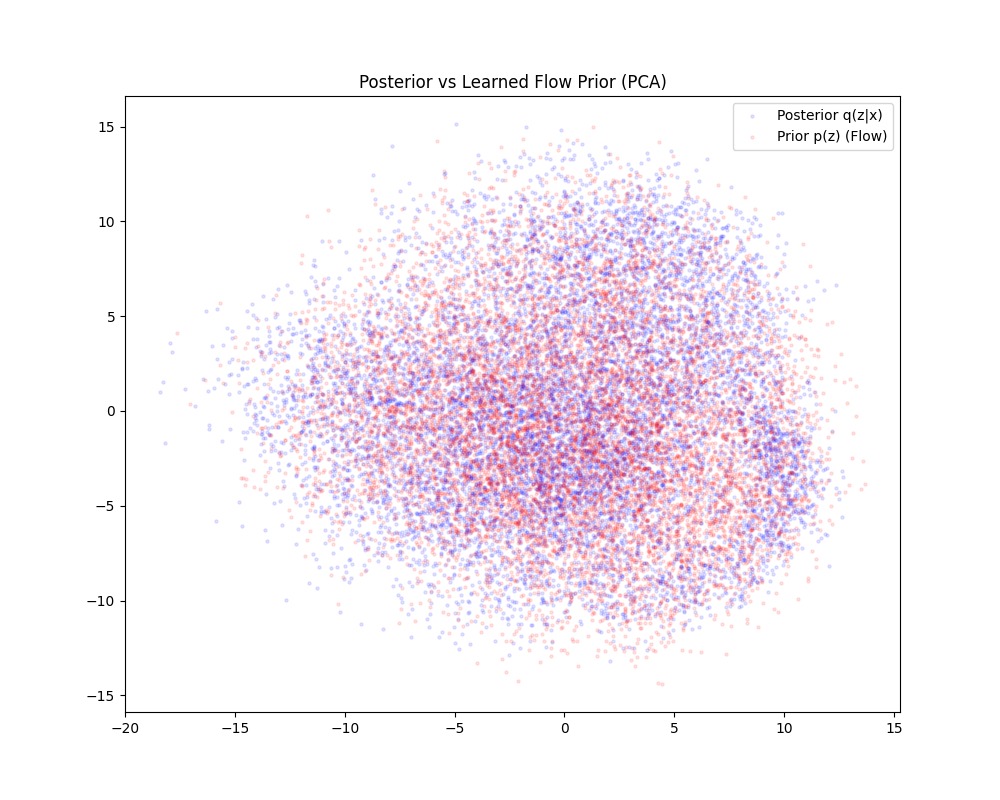
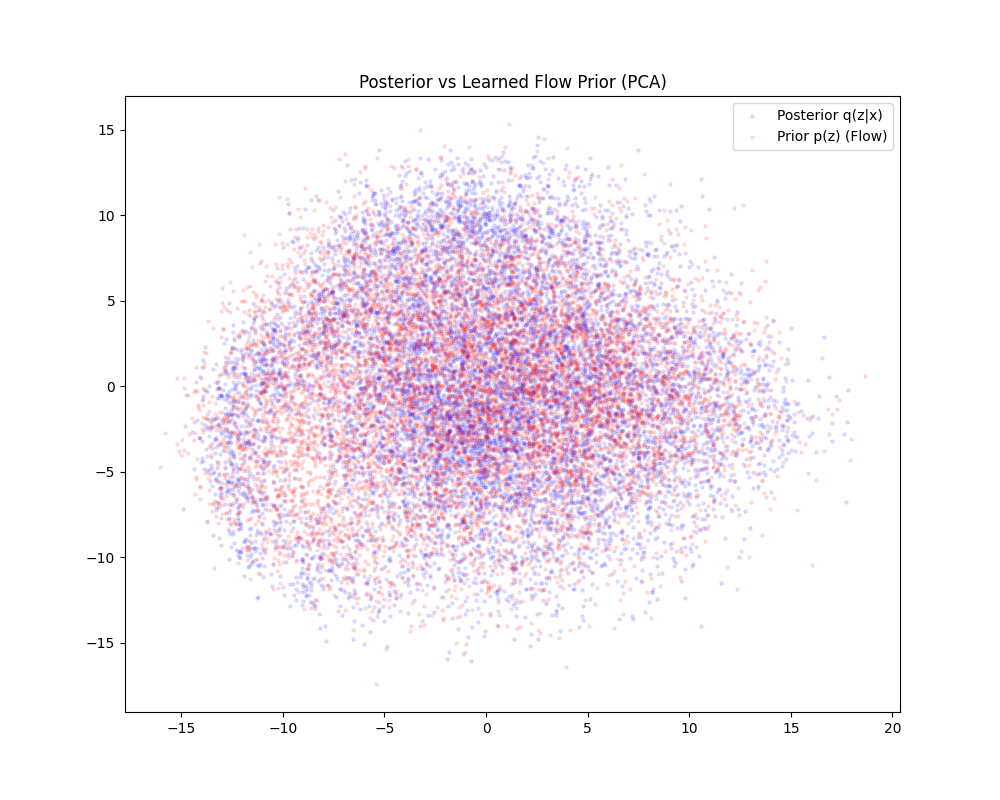
adds week5 stuff

diff --git a/Week 3/ddpm.py b/Week 3/ddpm.py
@@ -134,10 +134,14 @@ if __name__ == "__main__":
     import argparse
     import matplotlib.pyplot as plt
     import numpy as np
+    
+    # Import your new Unet class
+    from unet import Unet
 
     parser = argparse.ArgumentParser()
     parser.add_argument('mode', type=str, default='train', choices=['train', 'sample', 'test'], help='what to do when running the script (default: %(default)s)')
-    parser.add_argument('--data', type=str, default='tg', choices=['tg', 'cb', 'mnist'], help='dataset to use {tg: two Gaussians, cb: chequerboard, mnist: MNIST digits} (default: %(default)s)')
+    parser.add_argument('--data', type=str, default='tg', choices=['tg', 'cb', 'mnist'], help='dataset to use (default: %(default)s)')
+    parser.add_argument('--network', type=str, default='fc', choices=['fc', 'unet'], help='network architecture to use (default: %(default)s)')
     parser.add_argument('--model', type=str, default='model.pt', help='file to save model to or load model from (default: %(default)s)')
     parser.add_argument('--samples', type=str, default='samples.png', help='file to save samples in (default: %(default)s)')
     parser.add_argument('--device', type=str, default='cpu', choices=['cpu', 'cuda', 'mps'], help='torch device (default: %(default)s)')
@@ -152,10 +156,9 @@ if __name__ == "__main__":
 
     # 1. GENERATE THE DATA
     if args.data == 'mnist':
-        # Warn user if they are using default batch size for MNIST
         if args.batch_size == 10000:
-            print("\nWARNING: Batch size 10000 is too large for MNIST and may cause an Out Of Memory error.")
-            print("Consider running with: --batch-size 128\n")
+            print("\nWARNING: Batch size 10000 is too large for MNIST. Defaulting to 128 to prevent OOM errors.\n")
+            args.batch_size = 128
 
         transform = transforms.Compose([
             transforms.ToTensor(),
@@ -167,8 +170,8 @@ if __name__ == "__main__":
         train_data = datasets.MNIST('data/', train=True, download=True, transform=transform)
         train_loader = torch.utils.data.DataLoader(train_data, batch_size=args.batch_size, shuffle=True)
         
-        D = 784             # 28x28 flattened
-        num_hidden = 512    # Wider network for higher dimensional data
+        D = 784 
+        num_hidden = 512 
     else:
         n_data = 10000000
         toy = {'tg': ToyData.TwoGaussians, 'cb': ToyData.Chequerboard}[args.data]()
@@ -176,10 +179,18 @@ if __name__ == "__main__":
         train_loader = torch.utils.data.DataLoader(transform(toy().sample((n_data,))), batch_size=args.batch_size, shuffle=True)
         
         D = next(iter(train_loader)).shape[1]
-        num_hidden = 64     # Smaller network is sufficient for toy data
+        num_hidden = 64
 
     # 2. DEFINE THE NETWORK AND MODEL
-    network = FcNetwork(D, num_hidden)
+    if args.network == 'unet':
+        if args.data != 'mnist':
+            raise ValueError("The provided Unet is hardcoded for 28x28 MNIST images. Please use --data mnist.")
+        print("Using U-Net Architecture...")
+        network = Unet()
+    else:
+        print("Using Fully Connected Architecture...")
+        network = FcNetwork(D, num_hidden)
+        
     T = 1000
     model = DDPM(network, T=T).to(args.device)
 
@@ -194,17 +205,11 @@ if __name__ == "__main__":
         model.eval()
 
         if args.data == 'mnist':
-            # Generate 64 samples to create an 8x8 grid
             with torch.no_grad():
                 samples = model.sample((64, D)).cpu()
             
-            # Transform the samples back to [0, 1] range
             samples = samples / 2 + 0.5
-            
-            # Reshape flattened vectors back into 28x28 image matrices
             samples = samples.view(-1, 1, 28, 28)
-            
-            # Save using torchvision's save_image functionality
             save_image(samples, args.samples, nrow=8)
             print(f"Saved MNIST samples grid to {args.samples}")
 
@@ -212,10 +217,7 @@ if __name__ == "__main__":
             with torch.no_grad():
                 samples = (model.sample((10000, D))).cpu() 
 
-            # Transform the samples back to the original space
             samples = samples / 2 + 0.5
-
-            # Plot the density of the toy data and the model samples
             coordinates = [[[x,y] for x in np.linspace(*toy.xlim, 1000)] for y in np.linspace(*toy.ylim, 1000)]
             prob = torch.exp(toy().log_prob(torch.tensor(coordinates)))
 

diff --git a/Week 5/vae_bernoulli_compute_curve_lengths.py b/Week 5/vae_bernoulli_compute_curve_lengths.py
@@ -78,7 +78,7 @@ def plot_curve_and_manifold(model, data_loader, z_path, x_path, device):
     ax2.axis('off')
 
     plt.tight_layout()
-    plt.show()
+    plt.savefig('curve_plot.png')
 
 class GaussianPrior(nn.Module):
     def __init__(self, M):
@@ -262,6 +262,7 @@ if __name__ == "__main__":
     parser.add_argument('--device', type=str, default='cpu', choices=['cpu', 'cuda', 'mps'], help='torch device (default: %(default)s)')
     parser.add_argument('--batch-size', type=int, default=32, metavar='N', help='batch size for training (default: %(default)s)')
     parser.add_argument('--epochs', type=int, default=10, metavar='N', help='number of epochs to train (default: %(default)s)')
+    parser.add_argument('--model', type=str, default='vae_model.pt', help='file to save or load model to/from (default: %(default)s)')
     parser.add_argument('--latent-dim', type=int, default=32, metavar='N', help='dimension of latent variable (default: %(default)s)')
 
     args = parser.parse_args()
@@ -333,9 +334,10 @@ if __name__ == "__main__":
         model.load_state_dict(torch.load(args.model, map_location=torch.device(args.device)))
 
         # Create an interesting curved path
-        w0 = torch.tensor([[-2.0, -2.0]]).to(device)
-        w1 = torch.tensor([[4.0, 1.0]]).to(device)
-        w2 = torch.tensor([[-1.0, 3.0]]).to(device)
+        # A parabolic curve that hits the origin at exactly t=0.5
+        w0 = torch.tensor([[-2.0, 2.0]]).to(device)  # Start top-left
+        w1 = torch.tensor([[4.0, -8.0]]).to(device)  # Velocity pulls down and right
+        w2 = torch.tensor([[0.0, 8.0]]).to(device)   # Curvature pulls back up
 
         my_curve = lambda t: latent_poly2_curve(t, w0, w1, w2)
 
